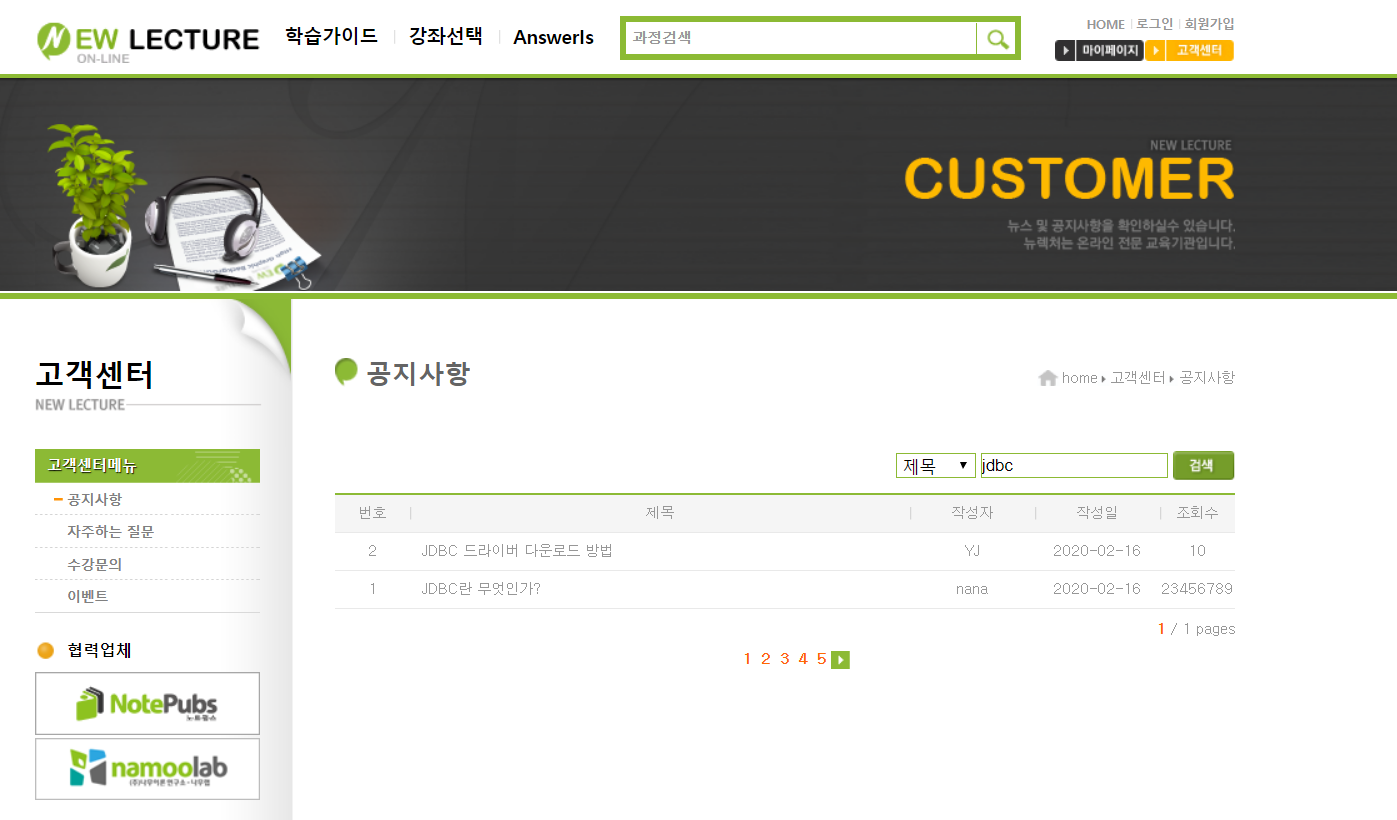
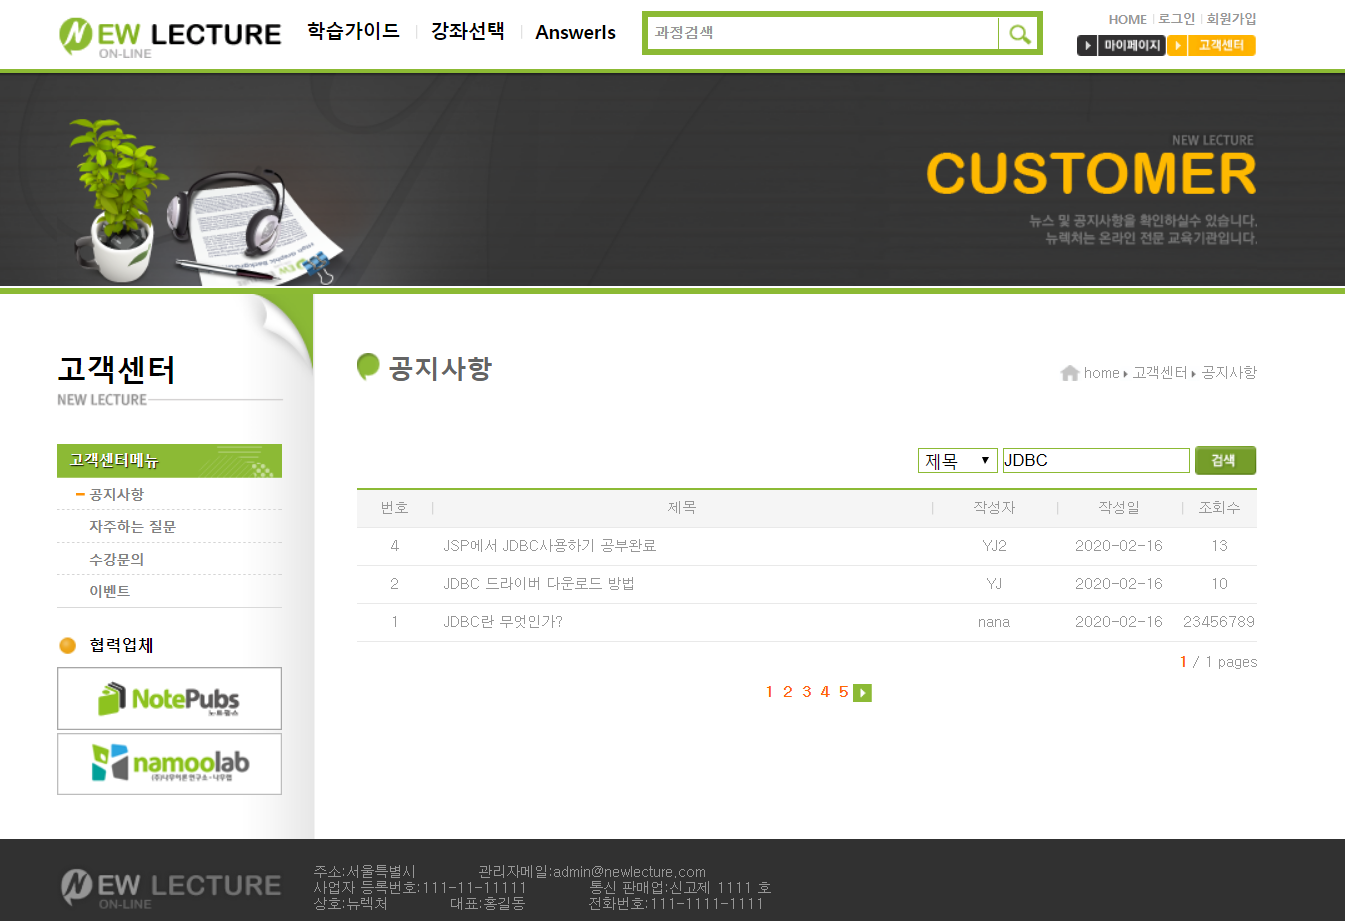
SearchFunctions_refactoring

diff --git a/JSPPrj_AddSearchFunctions/src/com/newlecture/web/service/NoticeService.java b/JSPPrj_AddSearchFunctions/src/com/newlecture/web/service/NoticeService.java
@@ -39,7 +39,7 @@ public class NoticeService {
 			PreparedStatement st = con.prepareStatement(sql);
 
 			st.setString(1, "%"+query+"%");
-			st.setInt(2, page); // 이거 다시봐야한다., (1,1+(page-1) * 10)
+			st.setInt(2, page-1); // 이거 다시봐야한다., (1,1+(page-1) * 10)
 			st.setInt(3, 10);// 갑자기 왜 꺠졌지
 			// Statement st = con.createStatement();
 			ResultSet rs = st.executeQuery();
